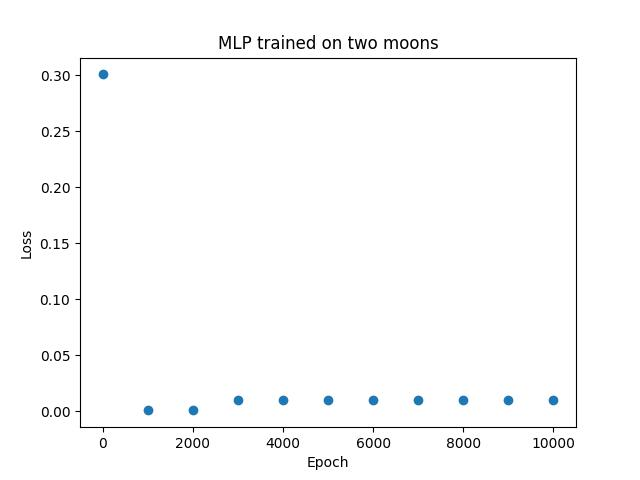
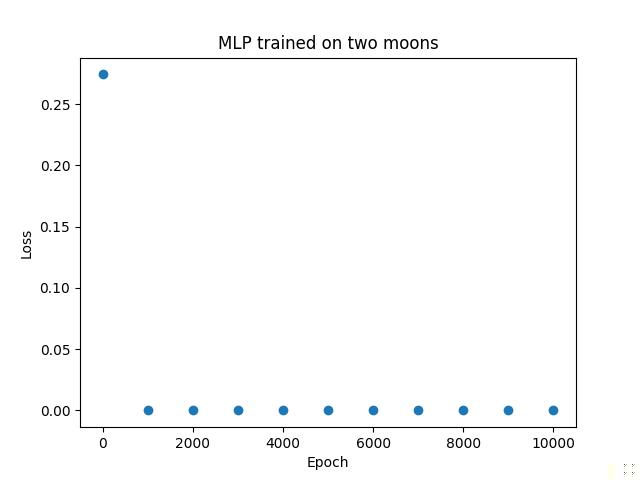
Fix two moons debug info 91% accuracy:
```
$ python -m cudagrad.moons
epoch=0 loss.item()=0.27437999844551086
0.5%
['🔥', '🔥', '🔥', ' ', ' ', '🔥', ' ', '🔥', ' ', ' ', '🔥', ' ', '🔥', ' ', '🔥', ' ', ' ', '🔥', '🔥', '🔥', '🔥', ' ', '🔥', '🔥', '🔥', ' ', ' ', ' ', ' ', '🔥', '🔥', ' ', ' ', ' ', ' ', ' ', ' ', '🔥', '🔥', ' ', '🔥', '🔥', ' ', '🔥', ' ', '🔥', '🔥', ' ', ' ', '🔥', '🔥', ' ', '🔥', ' ', '🔥', ' ', ' ', ' ', '🔥', '🔥', ' ', '🔥', '🔥', ' ', ' ', ' ', '🔥', '🔥', ' ', ' ', '🔥', '🔥', '🔥', ' ', '🔥', '🔥', ' ', ' ', '🔥', ' ', ' ', '🔥', '🔥', '🔥', ' ', ' ', '🔥', '🔥', '🔥', ' ', ' ', '🔥', ' ', '🔥', ' ', '🔥', ' ', ' ', '🔥', ' ']
epoch=1000 loss.item()=0.00016290084749925882
0.88%
['🔥', ' ', ' ', '🔥', ' ', '🔥', '🔥', '🔥', '🔥', ' ', '🔥', '🔥', '🔥', '🔥', ' ', '🔥', '🔥', '🔥', '🔥', '🔥', '🔥', ' ', '🔥', '🔥', '🔥', '🔥', ' ', ' ', '🔥', '🔥', '🔥', '🔥', '🔥', '🔥', '🔥', '🔥', '🔥', '🔥', '🔥', '🔥', '🔥', '🔥', '🔥', '🔥', '🔥', ' ', '🔥', '🔥', '🔥', '🔥', '🔥', '🔥', '🔥', '🔥', ' ', '🔥', '🔥', '🔥', '🔥', '🔥', ' ', '🔥', '🔥', '🔥', '🔥', '🔥', '🔥', '🔥', '🔥', '🔥', '🔥', '🔥', '🔥', '🔥', '🔥', '🔥', '🔥', '🔥', '🔥', '🔥', '🔥', '🔥', '🔥', '🔥', '🔥', '🔥', '🔥', '🔥', '🔥', '🔥', '🔥', '🔥', '🔥', '🔥', '🔥', '🔥', '🔥', '🔥', ' ', '🔥']
epoch=2000 loss.item()=4.2567586206132546e-05
0.88%
[…]

diff --git a/cudagrad/moons.py b/cudagrad/moons.py
@@ -13,13 +13,12 @@ from random import choice, random
 
 from sklearn.datasets import make_moons
 
-from cudagrad.nn import mse, sgd
 from cudagrad.mlp import MLP
+from cudagrad.nn import mse, sgd
 from cudagrad.tensor import Tensor
 
-
 if __name__ == "__main__":
-    moons = make_moons() # two moons
+    moons = make_moons()  # two moons
 
     inputs = moons[0]
     targets = moons[1]
@@ -36,33 +35,14 @@ if __name__ == "__main__":
             loss.backward()
             sgd(model, lr)
         if epoch % (EPOCHS // 10) == 0:
-            print(f"{epoch=}", f"{loss.item()}")
+            print(f"{epoch=}", f"{loss.item()=}")
             epochs.append(epoch)
             losses.append(loss.item())
-            out0 = int(model(Tensor([2, 1], inputs[(len(inputs) // 4) * 0])).item())
-            out1 = int(model(Tensor([2, 1], inputs[(len(inputs) // 4) * 1])).item())
-            out2 = int(model(Tensor([2, 1], inputs[(len(inputs) // 4) * 2])).item())
-            out3 = int(model(Tensor([2, 1], inputs[(len(inputs) // 4) * 3])).item())
-            print(
-                f"Moons {inputs[(len(inputs) // 4) * 0]} = {(targets[i] // 4) * 0}",
-                int(model(Tensor([2, 1], inputs[(len(inputs) // 4) * 0])).item()),
-                "🔥" if out0 == targets[(len(inputs) // 4) * 0] else "",
-            )
-            print(
-                f"Moons {inputs[(len(inputs) // 4) * 1]} = {(targets[i] // 4) * 1}",
-                int(model(Tensor([2, 1], inputs[(len(inputs) // 4) * 1])).item()),
-                "🔥" if out1 == targets[(len(inputs) // 4) * 1] else "",
-            )
-            print(
-                f"Moons {inputs[(len(inputs) // 4) * 2]} = {(targets[i] // 4) * 2}",
-                int(model(Tensor([2, 1], inputs[(len(inputs) // 4) * 2])).item()),
-                "🔥" if out2 == targets[(len(inputs) // 4) * 2] else "",
-            )
-            print(
-                f"Moons {inputs[(len(inputs) // 4) * 3]} = {(targets[i] // 4) * 3}",
-                int(model(Tensor([2, 1], inputs[(len(inputs) // 4) * 3])).item()),
-                "🔥" if out3 == targets[(len(inputs) // 4) * 3] else "",
-            )
+            accuracy = []
+            for i, target in enumerate(targets):
+                accuracy.append(round(model(Tensor([2, 1], inputs[i])).item()) == target.item())
+            print(f"{round(sum(accuracy) / len(accuracy), 2)}%")
+            print(["🔥" if x == True else " " for x in accuracy])
 
     if not PROFILING:
         plt.scatter(epochs, losses)
